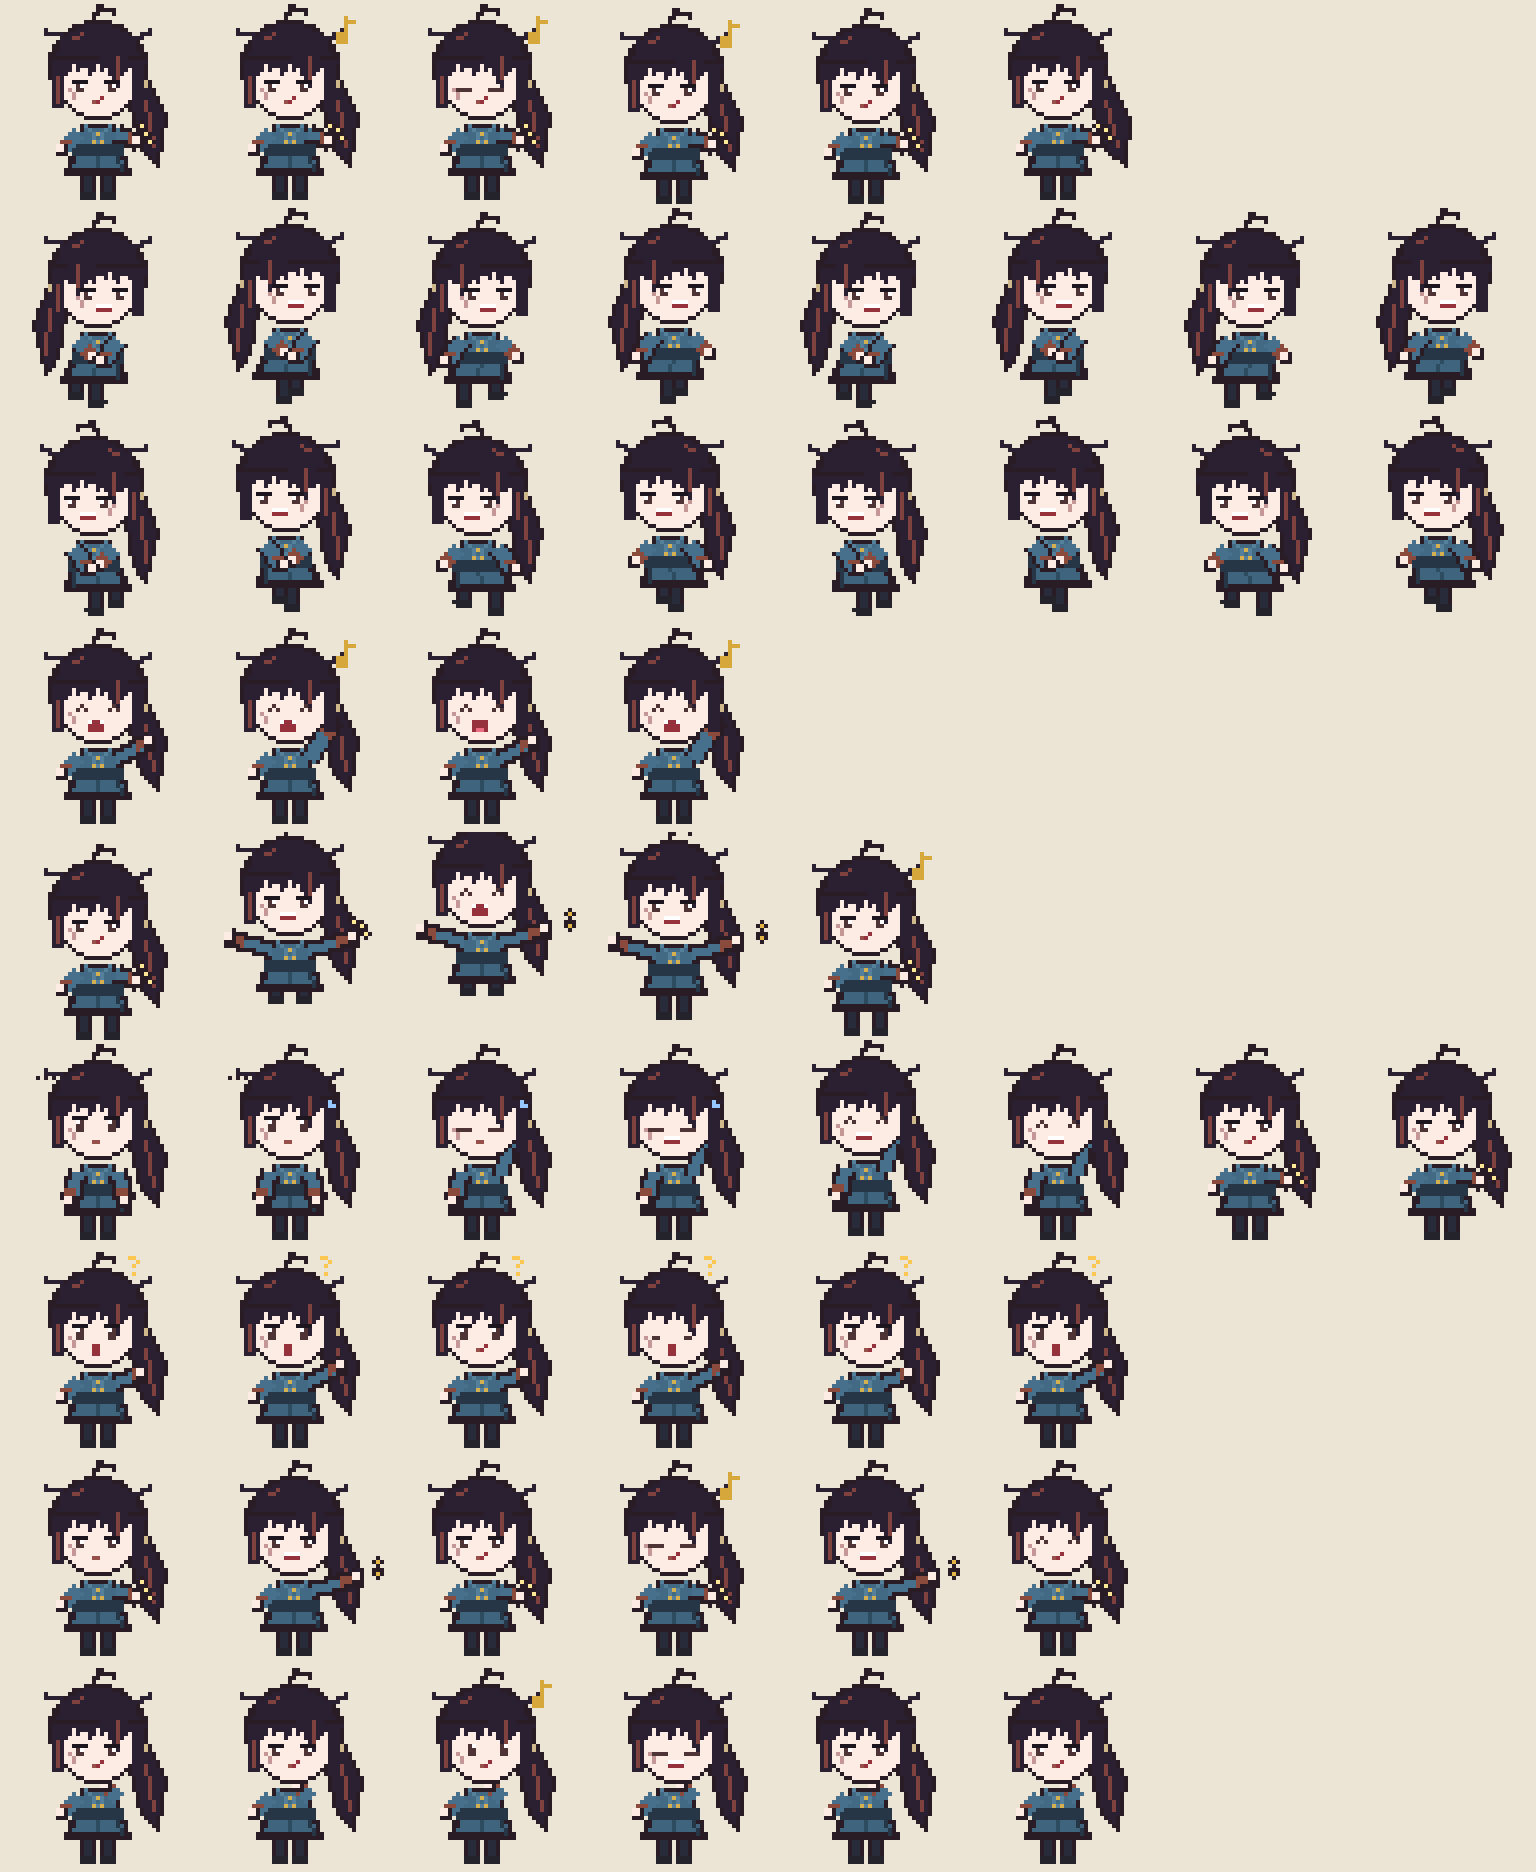
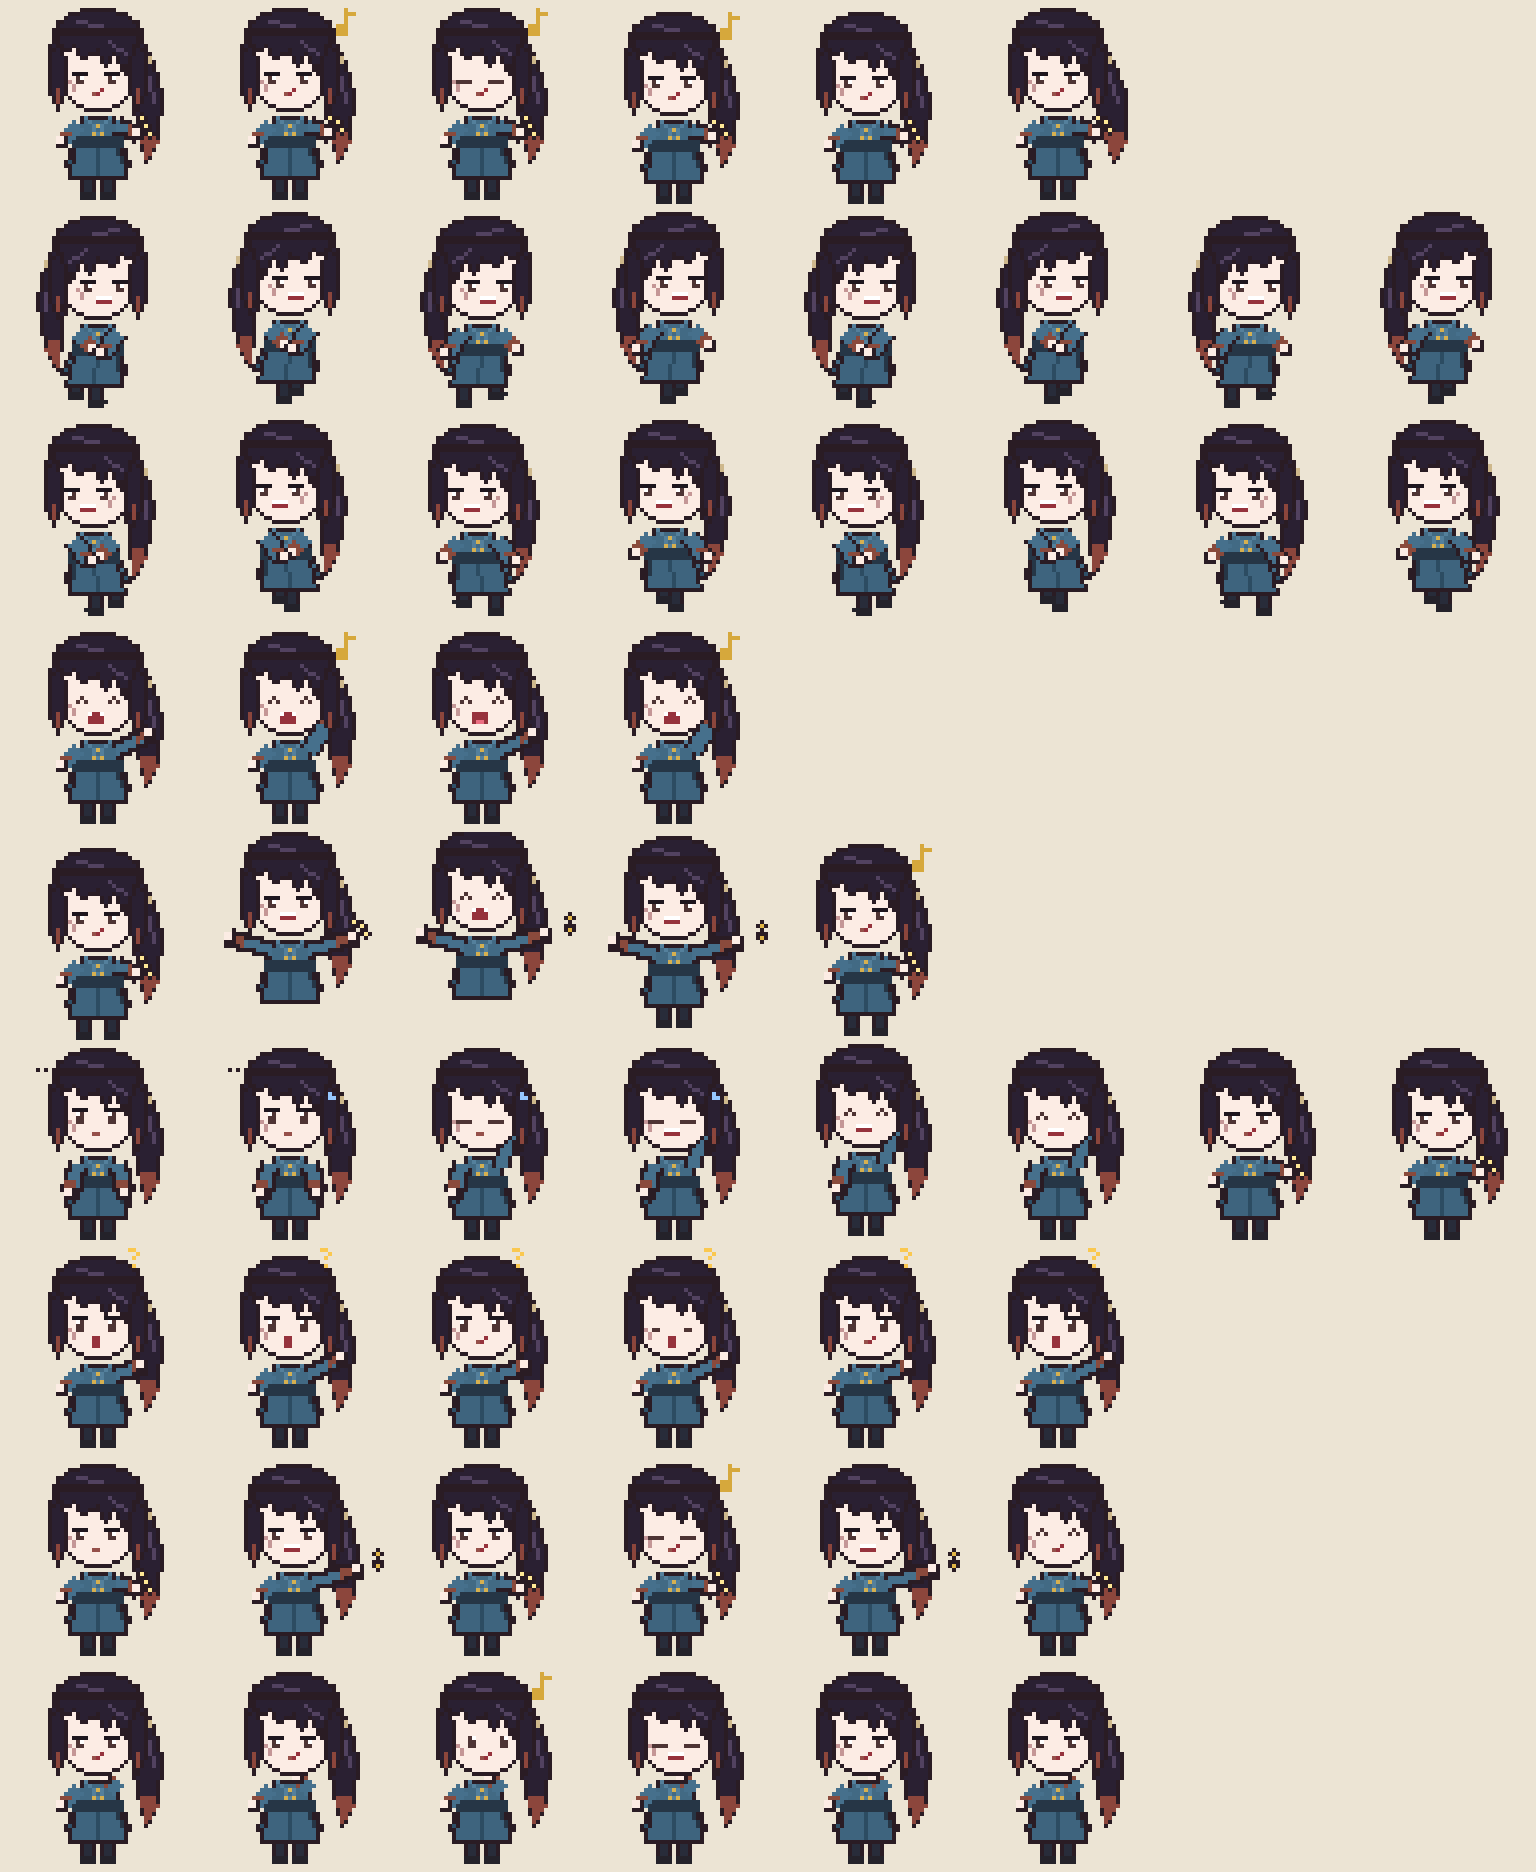
大師兄：身高拉高、改成斜掃瀏海與長馬尾
Claude-Session: https://claude.ai/code/session_014Ug96dnPv181rpAqSNBU9C

diff --git a/index.html b/index.html
@@ -180,10 +180,10 @@ cd mortal-pets && ./install.sh codex</pre>
 </main>
 
 <!-- ?v= 是版本號：更新角色資料時一起改，避免瀏覽器拿快取裡的舊檔配新網頁 -->
-<script src="claude-plugin/mortal-buddy/scripts/characters.js?v=0.3.3"></script>
-<script src="claude-plugin/mortal-buddy/scripts/locales/ja.js?v=0.3.3"></script>
-<script src="claude-plugin/mortal-buddy/scripts/locales/ko.js?v=0.3.3"></script>
-<script src="claude-plugin/mortal-buddy/scripts/locales/en.js?v=0.3.3"></script>
+<script src="claude-plugin/mortal-buddy/scripts/characters.js?v=0.3.4"></script>
+<script src="claude-plugin/mortal-buddy/scripts/locales/ja.js?v=0.3.4"></script>
+<script src="claude-plugin/mortal-buddy/scripts/locales/ko.js?v=0.3.4"></script>
+<script src="claude-plugin/mortal-buddy/scripts/locales/en.js?v=0.3.4"></script>
 <script>
   const BASE = window.MORTAL_CHARS;
   const { UPCOMING } = BASE;
@@ -435,7 +435,7 @@ cd mortal-pets && ./install.sh codex</pre>
     document.querySelectorAll("#tabs .tab").forEach((t) => t.setAttribute("aria-selected", t.dataset.id === id));
     const outfits = c.outfits || [{ id, name: "" }];
     const petId = outfits.some((o) => o.id === store.outfit[id]) ? store.outfit[id] : outfits[0].id;
-    sprite.style.backgroundImage = `url(codex/pets/${petId}/spritesheet.webp?v=0.3.3)`;
+    sprite.style.backgroundImage = `url(codex/pets/${petId}/spritesheet.webp?v=0.3.4)`;
     const ob = $("outfits");
     ob.innerHTML = "";
     ob.hidden = outfits.length < 2;

diff --git a/tools/build_sprites.py b/tools/build_sprites.py
@@ -196,9 +196,9 @@ CHARACTERS["weiju"] = {
 CHARACTERS["tangbuyi"] = {
     "displayName": "大師兄",
     "description": "唐門大師兄唐布衣，人稱「飛俠」：爽朗不羈、暗器輕功當世一流，指間轉著金錢鏢、哼著小調，夢想是退隱江湖說相聲。（活俠傳同人・番外）",
-    # 依 LoM Wiki 立繪：紫黑長髮帶紅褐髮梢、亂翹的瀏海與呆毛、草繩紮的低馬尾；
+    # 依 LoM Wiki 立繪：紫黑長髮帶紅褐髮梢、斜掃的瀏海、草繩紮的長馬尾；
     # 青藍立領長袍配金色盤扣、紅褐護腕與紅羽飾，指間夾著金錢鏢，臉頰一道小疤
-    "hair": (42, 32, 50, 255), "hair_hi": (128, 66, 62, 255),
+    "hair": (42, 32, 50, 255), "hair_hi": (82, 66, 96, 255), "hair_tip": (140, 70, 60, 255),
     "skin": (252, 236, 228, 255), "skin_sh": (232, 204, 194, 255),
     "eye": (78, 52, 52, 255), "lid": (30, 22, 30, 255),
     "cloth": (66, 106, 132, 255), "cloth_sh": (46, 80, 104, 255),
@@ -210,8 +210,8 @@ CHARACTERS["tangbuyi"] = {
     "rope": (206, 184, 140, 255), "button": (214, 176, 80, 255),
     "shoe": (36, 34, 42, 255), "leg": (40, 44, 58, 255),
     "blush": (244, 206, 196, 255), "lips": (150, 80, 74, 255),
-    "outfit": "dress", "male": True, "head": "messy", "scar": True,
-    "long_hair": False, "height_drop": -2, "tall": 2, "default_eyes": "drowsy",
+    "outfit": "dress", "male": True, "head": "swept", "scar": True,
+    "long_hair": False, "height_drop": -4, "tall": 4, "default_eyes": "drowsy",
 }
 
 # 小竹・裂骨魔：同一個人，換上鐵網護甲、虎紋背帶、虎頭面具與機關臂，背著刻紅紋的大刀
@@ -336,16 +336,19 @@ def draw_frame(cid, pose):
                (bx0 + 9 * k + sway * k, hy - 4), (bx0 + 3 * k, hy - 10)]
         p.poly(pts, c["hair"], OUTLINE)
         p.line([(bx0 + 5 * k, hy - 12), (bx0 + 10 * k + sway * k, hy - 5)], c["hair_hi"])
-    elif c.get("head") == "messy":
-        # 大師兄：亂翹的頭髮，草繩紮成低馬尾往後甩
-        p.ell(hx - 12, hy - 12, hx + 12, hy + 10, c["hair"], OUTLINE)
+    elif c.get("head") == "swept":
+        # 大師兄：草繩把長髮束在腦後，一束長馬尾順順地往後垂，髮尾帶紅褐
+        p.ell(hx - 12, hy - 13, hx + 12, hy + 10, c["hair"], OUTLINE)
         k = -1 if face_r else 1
-        bx0 = hx + 8 * k
-        pts = [(bx0, hy + 2), (bx0 + 4 * k, hy + 1), (bx0 + 9 * k + sway * k, hy + 12),
-               (bx0 + 7 * k + sway * 2 * k, hy + 24), (bx0 + 3 * k + sway * k, hy + 20), (bx0, hy + 8)]
+        bx0 = hx + 9 * k
+        pts = [(bx0, hy - 3), (bx0 + 4 * k, hy - 2), (bx0 + 7 * k + sway * k, hy + 8),
+               (bx0 + 6 * k + sway * 2 * k, hy + 20), (bx0 + 3 * k + sway * 2 * k, hy + 25),
+               (bx0 + 1 * k + sway * k, hy + 16), (bx0 - 1 * k, hy + 6)]
         p.poly(pts, c["hair"], OUTLINE)
-        p.line([(bx0 + 4 * k, hy + 8), (bx0 + 6 * k + sway * k, hy + 19)], c["hair_hi"])  # 紅褐髮梢
-        p.line([(bx0, hy + 4), (bx0 + 4 * k, hy + 3)], c["rope"], 2)  # 草繩
+        p.line([(bx0 + 3 * k, hy + 1), (bx0 + 5 * k + sway * k, hy + 10)], c["hair_hi"])
+        p.poly([(bx0 + 5 * k + sway * 2 * k, hy + 18), (bx0 + 6 * k + sway * 2 * k, hy + 20),
+                (bx0 + 3 * k + sway * 2 * k, hy + 24), (bx0 + 2 * k + sway * k, hy + 18)], c["hair_tip"])
+        p.line([(bx0 - k, hy - 2), (bx0 + 4 * k, hy - 1)], c["rope"], 2)  # 草繩
     elif c.get("head") == "twin":
         # 葉雲裳：頭頂兩側的小髻
         p.ell(hx - 12, hy - 12, hx + 12, hy + 9, c["hair"], OUTLINE)
@@ -455,7 +458,7 @@ def draw_frame(cid, pose):
         hem = 46 + dy + c.get("tall", 0)
         kick = legs == "kick"
         if c.get("male"):  # 大師兄：直筒長袍下襬到膝，兩側開衩露出褲管
-            hem = 44 + dy
+            hem = 44 + dy + c.get("tall", 0)
             skirt = [(18 + dx, 40 + dy), (30 + dx, 40 + dy), (31 + dx + flare, hem), (17 + dx + flare, hem)]
         elif c.get("waist"):  # 小師妹：裙子從細腰順順往下垂，只微微變寬
             skirt = [(19 + dx, 40 + dy), (29 + dx, 40 + dy), (31 + dx + flare, hem), (17 + dx + flare, hem)]
@@ -629,8 +632,8 @@ def draw_frame(cid, pose):
     chin = 13 if c.get("mature") else 12  # 夏侯蘭下巴稍長、臉型成熟
     p.ell(hx - hw, hy - 8, hx + hw, hy + chin, c["skin"], OUTLINE)
     hair = c["hair"]
-    if c.get("head") == "locks":
-        # 小師妹：側分、露出額頭，不畫整排瀏海
+    if c.get("head") in ("locks", "swept"):
+        # 小師妹、大師兄：側分，不畫整排瀏海
         p.d.chord([hx - 11, hy - 13, hx + 11, hy - 1], 180, 360, fill=hair, outline=OUTLINE)
     else:
         # 瀏海
@@ -684,18 +687,21 @@ def draw_frame(cid, pose):
         p.line([(hx + 5 * k, hy - 12), (hx + 8 * k, hy - 6)], c["ribbon"])
         p.rect(hx - 11, hy - 2, hx - 9, hy + 10, hair)
         p.rect(hx + 9, hy - 2, hx + 11, hy + 10, hair)
-    elif c.get("head") == "messy":
+    elif c.get("head") == "swept":
+        # 大師兄：頭頂的髮順順往後，一大片瀏海從分線斜斜掃過額頭，髮尾分成幾綹尖尖的
         k = -1 if face_r else 1
-        # 一綹長瀏海斜斜蓋到眼角
-        p.poly([(hx + 1 * k, hy - 4), (hx + 7 * k, hy - 4), (hx + 5 * k, hy + 4), (hx + 3 * k, hy + 1)], hair)
-        p.line([(hx + 5 * k, hy - 3), (hx + 5 * k, hy + 2)], c["hair_hi"])
-        # 頭頂亂翹的呆毛與髮尾
-        p.line([(hx - 1, hy - 12), (hx + 1, hy - 16), (hx + 4, hy - 15)], OUTLINE, 2)
-        p.line([(hx - 9, hy - 8), (hx - 13, hy - 9)], hair, 2)
-        p.line([(hx + 9, hy - 8), (hx + 13, hy - 10)], hair, 2)
-        p.rect(hx - 11, hy - 2, hx - 9, hy + 9, hair)
-        p.rect(hx + 9, hy - 2, hx + 11, hy + 9, hair)
-        p.line([(hx - 10, hy + 2), (hx - 10, hy + 8)], c["hair_hi"])
+        P_ = lambda u, v: (hx + u * k, hy + v)
+        p.d.chord([hx - 11, hy - 13, hx + 11, hy - 1], 180, 360, fill=hair, outline=OUTLINE)
+        p.poly([P_(-10, -7), P_(10, -7), P_(11, 1), P_(8, -1), P_(7, 3), P_(4, -2), P_(2, 1),
+                P_(0, -3), P_(-4, -1), P_(-6, -4), P_(-10, -2)], hair, OUTLINE)
+        p.line([P_(-5, -10), P_(1, -9)], c["hair_hi"])  # 髮頂的光澤
+        p.line([P_(3, -5), P_(7, -2)], c["hair_hi"])  # 瀏海的髮流
+        # 兩側鬢髮順著臉頰垂到下巴，髮尾紅褐
+        for side in (-1, 1):
+            x0 = hx + 10 * side
+            p.poly([(x0 - side, hy - 4), (x0 + side * 2, hy - 3), (x0 + side * 2, hy + 8),
+                    (x0, hy + 12), (x0 - side * 2, hy + 7), (x0 - side * 2, hy + 1)], hair, OUTLINE)
+            p.line([(x0, hy + 7), (x0, hy + 10)], c["hair_tip"])
     elif c.get("head") == "updo":
         # 長髮往後梳、額頭露出來：只留髮際線，兩側長髮順著臉頰垂下
         p.ell(hx - 7, hy - 5, hx + 7, hy + 3, c["skin"])
@@ -1438,9 +1444,9 @@ def poses_tangbuyi():
                    P(arms=("hip", "wave_up"), mouth="fang", eyes="happy", fx=("note",))],
         # 飛俠：輕功一躍，空中擲出金錢鏢
         "jumping": [P(dy=2, legs="crouch", arms=("hip", "hold"), prop=("coins", 0), eyes="drowsy", mouth="smirk"),
-                    P(dy=-4, legs="tuck", arms=("spread", "thrust"), prop=("coins", 1), mouth="grin"),
-                    P(dy=-6, legs="tuck", arms=("spread", "thrust"), prop=("coins", "throw"), mouth="fang", eyes="happy"),
-                    P(dy=-3, legs="stand", arms=("spread", "thrust"), prop=("coins", "throw"), mouth="grin"),
+                    P(dy=-2, legs="tuck", arms=("spread", "thrust"), prop=("coins", 1), mouth="grin"),
+                    P(dy=-3, legs="tuck", arms=("spread", "thrust"), prop=("coins", "throw"), mouth="fang", eyes="happy"),
+                    P(dy=-1, legs="stand", arms=("spread", "thrust"), prop=("coins", "throw"), mouth="grin"),
                     P(dy=1, legs="crouch", arms=("hip", "hold"), prop=("coins", 0), mouth="smirk", fx=("note",))],
         # 失敗：無言地冒汗，再尷尬地抓頭傻笑
         "failed": [P(arms=("down", "down"), eyes="open", mouth="flat", fx=("speechless",)),
